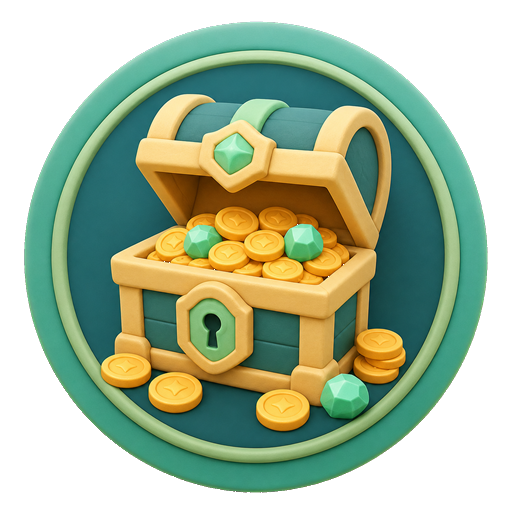
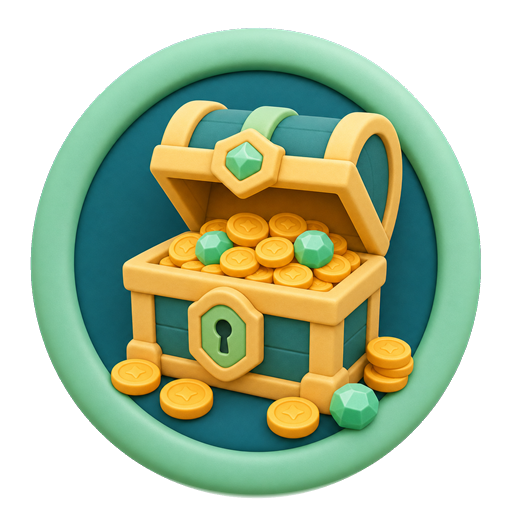
Update 13 04.07.2026.

diff --git a/www/style.css b/www/style.css
@@ -1329,6 +1329,21 @@ body[data-tema="svetla"] #postavke-nadimak {
     overflow: hidden;
 }
 
+.leaderboard-btn {
+    position: relative;
+    overflow: hidden;
+}
+
+.friend-room-btn {
+    position: relative;
+    overflow: hidden;
+}
+
+.settings-btn {
+    position: relative;
+    overflow: hidden;
+}
+
 .daily-challenge-btn::before {
     content: "";
     position: absolute;
@@ -1377,11 +1392,38 @@ body[data-tema="svetla"] #postavke-nadimak {
     transform: scale(1);
 }
 
+.leaderboard-btn.three-leaderboard-ready .leaderboard-three {
+    opacity: 1;
+    transform: scale(1);
+}
+
+.friend-room-btn.three-friend-room-ready .friend-room-three {
+    opacity: 1;
+    transform: scale(1);
+}
+
+.settings-btn.three-settings-ready .settings-three {
+    opacity: 1;
+    transform: scale(1);
+}
+
 .daily-challenge-btn.three-daily-ready .daily-challenge-icon {
     opacity: 0;
 }
 
 .treasury-btn.three-treasury-ready .treasury-icon {
+    opacity: 0;
+}
+
+.leaderboard-btn.three-leaderboard-ready .leaderboard-icon {
+    opacity: 0;
+}
+
+.friend-room-btn.three-friend-room-ready .friend-room-icon {
+    opacity: 0;
+}
+
+.settings-btn.three-settings-ready .settings-icon {
     opacity: 0;
 }
 
@@ -1401,6 +1443,21 @@ body[data-tema="svetla"] #postavke-nadimak {
     height: 100%;
 }
 
+.menu-action-icon.leaderboard-icon {
+    width: 100%;
+    height: 100%;
+}
+
+.menu-action-icon.friend-room-icon {
+    width: 100%;
+    height: 100%;
+}
+
+.menu-action-icon.settings-icon {
+    width: 100%;
+    height: 100%;
+}
+
 .daily-challenge-btn:active .daily-challenge-icon {
     transform: scale(0.92) rotate(-6deg);
     filter: drop-shadow(0 0 14px rgba(245, 175, 25, 0.48));
@@ -1411,6 +1468,18 @@ body[data-tema="svetla"] #postavke-nadimak {
 }
 
 .treasury-btn:active .treasury-three {
+    transform: scale(0.96);
+}
+
+.leaderboard-btn:active .leaderboard-three {
+    transform: scale(0.96);
+}
+
+.friend-room-btn:active .friend-room-three {
+    transform: scale(0.96);
+}
+
+.settings-btn:active .settings-three {
     transform: scale(0.96);
 }
 

diff --git a/www/daily-challenge-3d.js b/www/daily-challenge-3d.js
@@ -13,7 +13,7 @@
             textureSrc: 'assets/daily-challenge-clay-3d.png',
             fallbackPngSrc: null,
             fallbackSvgSrc: 'assets/dnevni-izazov-v2.svg',
-            planeSize: 2.3,
+            planeSize: 2.4,
             showFrame: false,
             showSparkle: false
         },
@@ -27,7 +27,49 @@
             textureSrc: 'assets/riznica-clay-3d.png',
             fallbackPngSrc: null,
             fallbackSvgSrc: 'assets/menu-riznica.svg',
-            planeSize: 2.3,
+            planeSize: 2.4,
+            showFrame: false,
+            showSparkle: false
+        },
+        {
+            selector: '.leaderboard-btn',
+            datasetKey: 'threeLeaderboardReady',
+            iconSelector: '.leaderboard-icon',
+            mountClass: 'daily-challenge-three leaderboard-three',
+            canvasClass: 'daily-challenge-three-canvas leaderboard-three-canvas',
+            readyClass: 'three-leaderboard-ready',
+            textureSrc: 'assets/top-lista-clay-3d.png',
+            fallbackPngSrc: null,
+            fallbackSvgSrc: 'assets/menu-top-lista.svg',
+            planeSize: 2.4,
+            showFrame: false,
+            showSparkle: false
+        },
+        {
+            selector: '.friend-room-btn',
+            datasetKey: 'threeFriendRoomReady',
+            iconSelector: '.friend-room-icon',
+            mountClass: 'daily-challenge-three friend-room-three',
+            canvasClass: 'daily-challenge-three-canvas friend-room-three-canvas',
+            readyClass: 'three-friend-room-ready',
+            textureSrc: 'assets/soba-prijatelja-clay-3d.png',
+            fallbackPngSrc: null,
+            fallbackSvgSrc: 'assets/menu-soba-prijatelja.svg',
+            planeSize: 2.4,
+            showFrame: false,
+            showSparkle: false
+        },
+        {
+            selector: '.settings-btn',
+            datasetKey: 'threeSettingsReady',
+            iconSelector: '.settings-icon',
+            mountClass: 'daily-challenge-three settings-three',
+            canvasClass: 'daily-challenge-three-canvas settings-three-canvas',
+            readyClass: 'three-settings-ready',
+            textureSrc: 'assets/podesavanja-clay-3d.png',
+            fallbackPngSrc: null,
+            fallbackSvgSrc: 'assets/menu-podesavanja.svg',
+            planeSize: 2.4,
             showFrame: false,
             showSparkle: false
         }
@@ -174,7 +216,7 @@
         }
     }
 
-    async function napraviPremiumIcon3D(button, THREE, config) {
+    async function napraviThreeIcon(button, THREE, config) {
         if (!button || button.dataset[config.datasetKey] === '1') return;
 
         const fallbackIkona = button.querySelector(config.iconSelector);
@@ -386,7 +428,7 @@
         ucitajThree()
             .then(THREE => Promise.all(THREE_ICON_CONFIGS.map(config => {
                     const button = document.querySelector(config.selector);
-                    return button ? napraviPremiumIcon3D(button, THREE, config) : Promise.resolve();
+                    return button ? napraviThreeIcon(button, THREE, config) : Promise.resolve();
                 })))
             .catch(() => {
                 THREE_ICON_CONFIGS.forEach(config => {

diff --git a/www/index.html b/www/index.html
@@ -219,17 +219,17 @@
                 <img class="menu-action-icon treasury-icon" src="assets/riznica-clay-3d.png" alt="" aria-hidden="true" decoding="async">
             </button>
             
-            <button class="circle-btn" onclick="TopListaManager.otvoriEkran()" title="Top lista" aria-label="Top lista">
-                <img class="menu-action-icon" src="assets/menu-top-lista.svg" alt="" aria-hidden="true" decoding="async">
+            <button class="circle-btn leaderboard-btn" onclick="TopListaManager.otvoriEkran()" title="Top lista" aria-label="Top lista">
+                <img class="menu-action-icon leaderboard-icon" src="assets/top-lista-clay-3d.png" alt="" aria-hidden="true" decoding="async">
             </button>
 
-            <button class="circle-btn" onclick="SobaPrijateljaManager.otvoriEkran()" title="Soba prijatelja" aria-label="Soba prijatelja" style="position: relative;">
-                <img class="menu-action-icon" src="assets/menu-soba-prijatelja.svg" alt="" aria-hidden="true" decoding="async">
+            <button class="circle-btn friend-room-btn" onclick="SobaPrijateljaManager.otvoriEkran()" title="Soba prijatelja" aria-label="Soba prijatelja" style="position: relative;">
+                <img class="menu-action-icon friend-room-icon" src="assets/soba-prijatelja-clay-3d.png" alt="" aria-hidden="true" decoding="async">
                 <span id="main-badge-zahtevi" style="display:none; position:absolute; top:-5px; right:-5px; background:#ff416c; color:white; font-size:0.6rem; font-weight:bold; padding:2px 6px; border-radius:50%;">0</span>
             </button>
             
-            <button class="circle-btn" onclick="PodesavanjaManager.otvoriEkran()" title="Podešavanja" aria-label="Podešavanja">
-                <img class="menu-action-icon" src="assets/menu-podesavanja.svg" alt="" aria-hidden="true" decoding="async">
+            <button class="circle-btn settings-btn" onclick="PodesavanjaManager.otvoriEkran()" title="Podešavanja" aria-label="Podešavanja">
+                <img class="menu-action-icon settings-icon" src="assets/podesavanja-clay-3d.png" alt="" aria-hidden="true" decoding="async">
             </button>
         </div>
     </div>